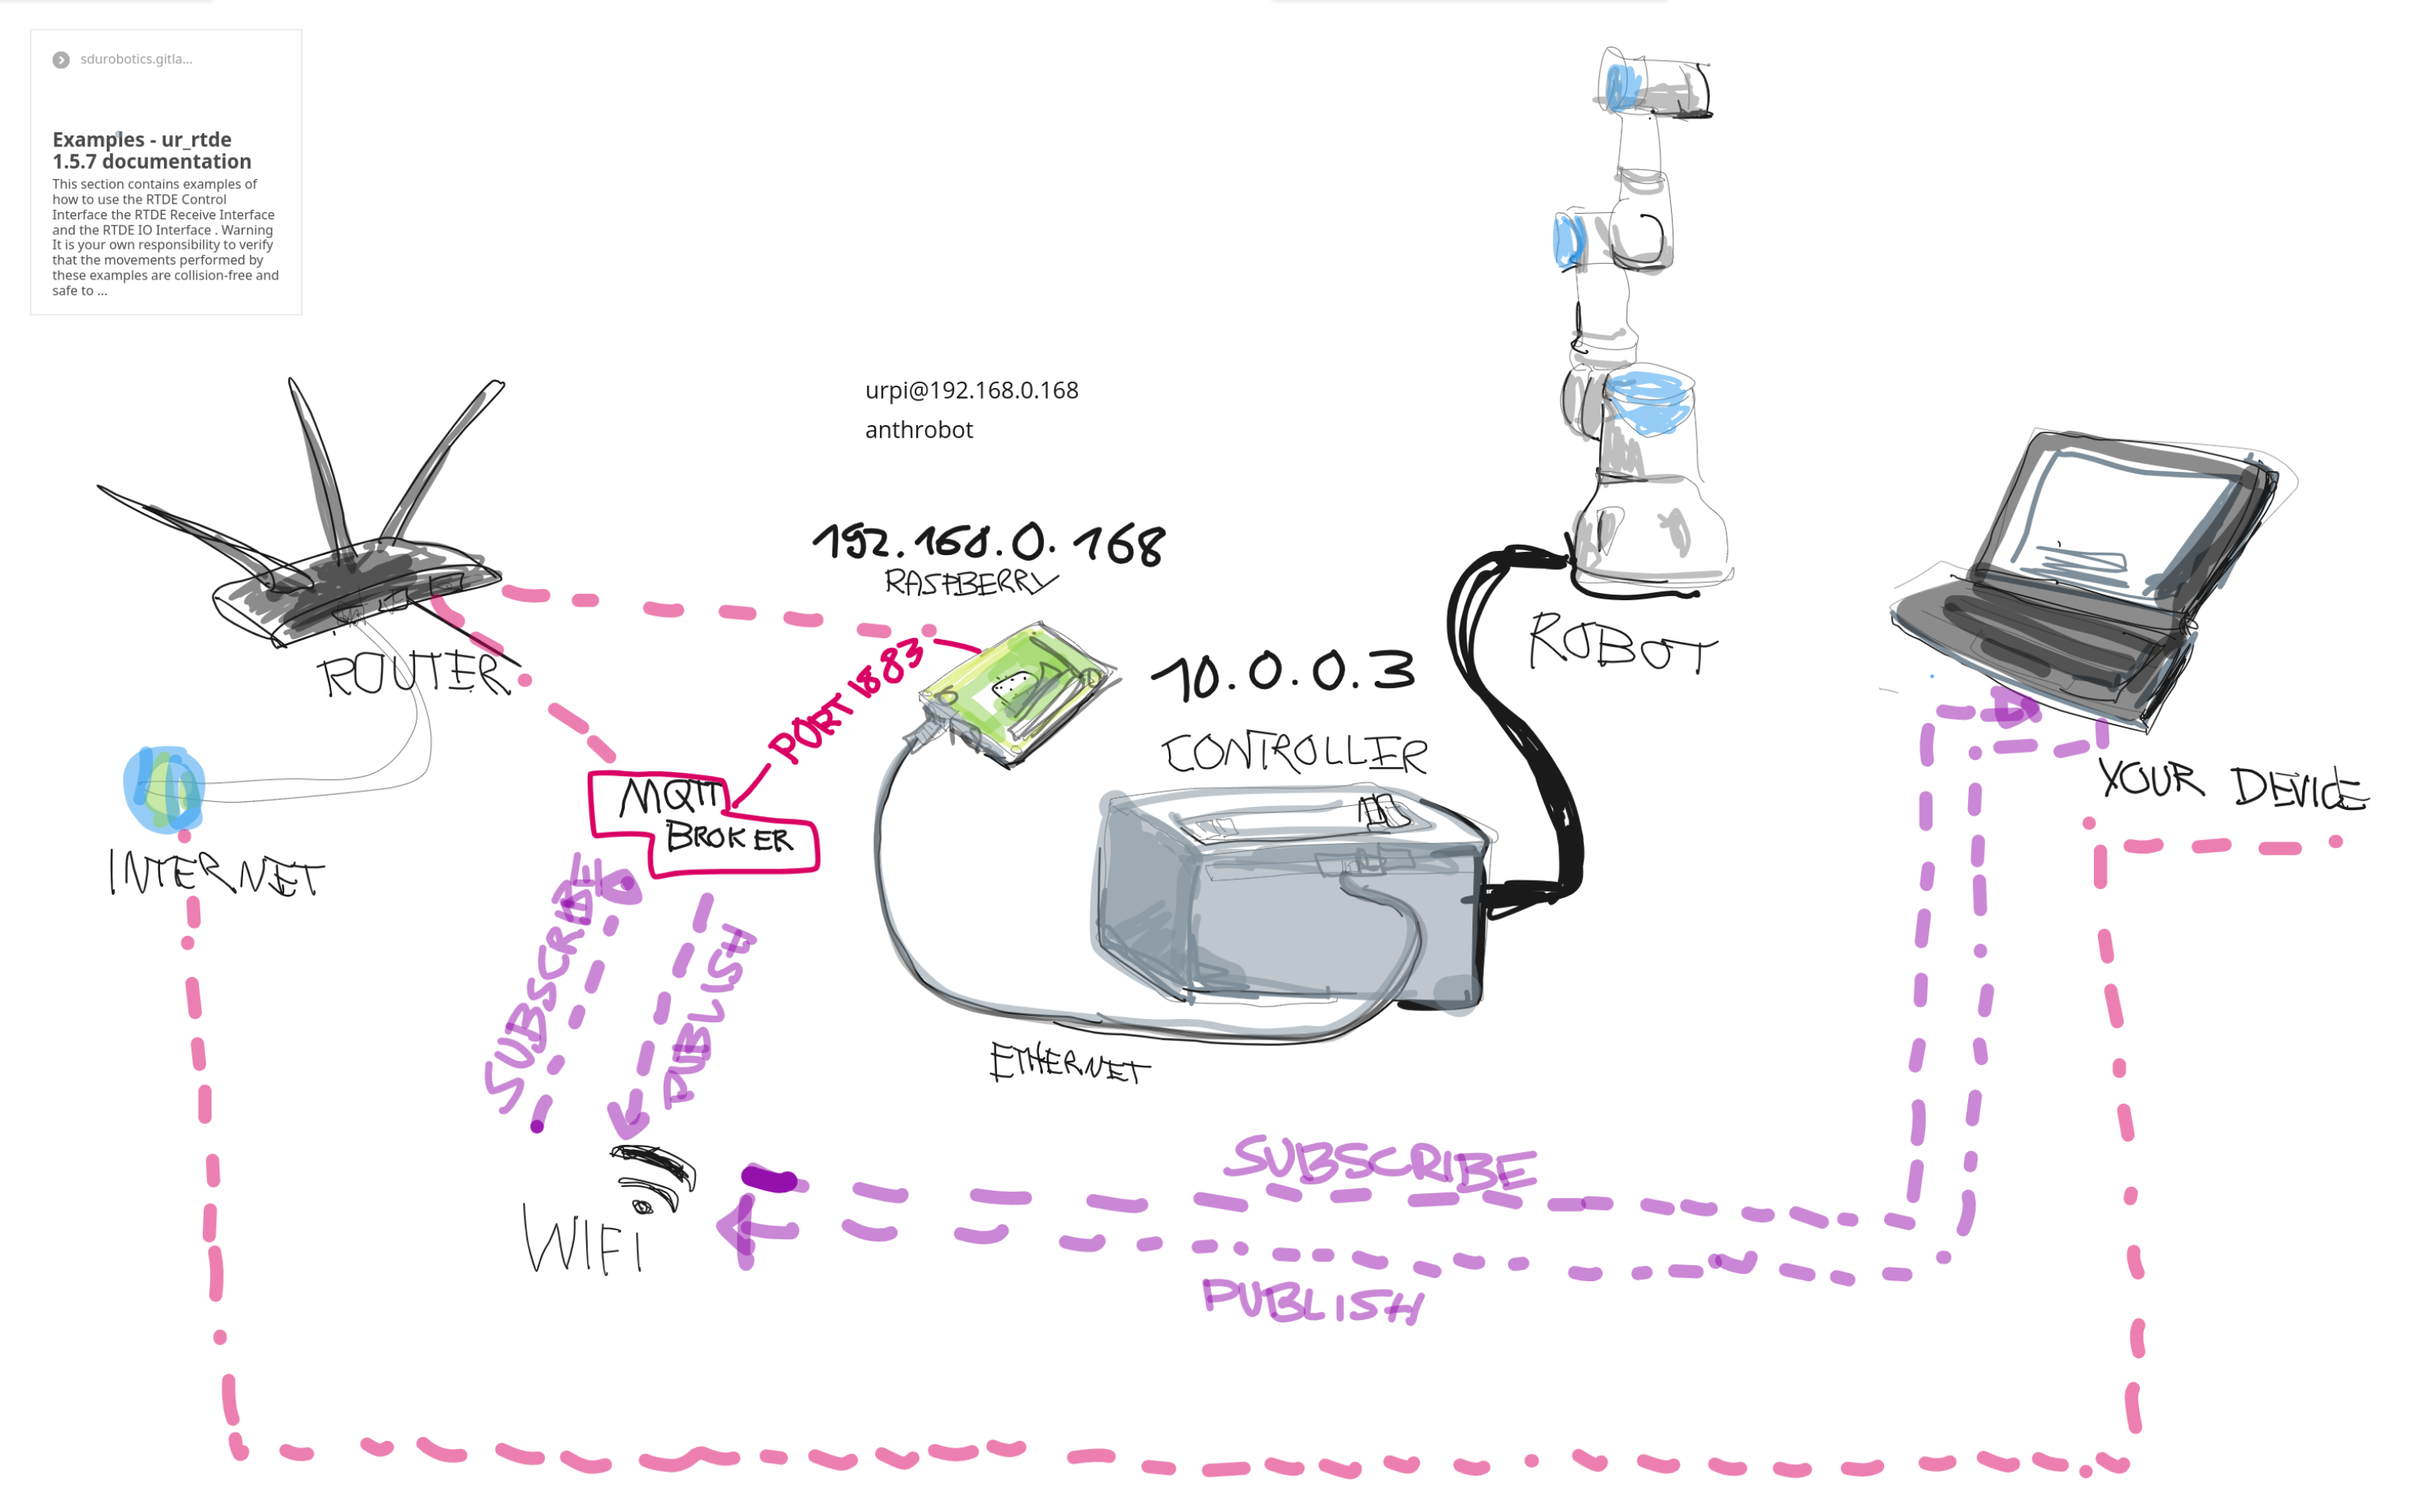
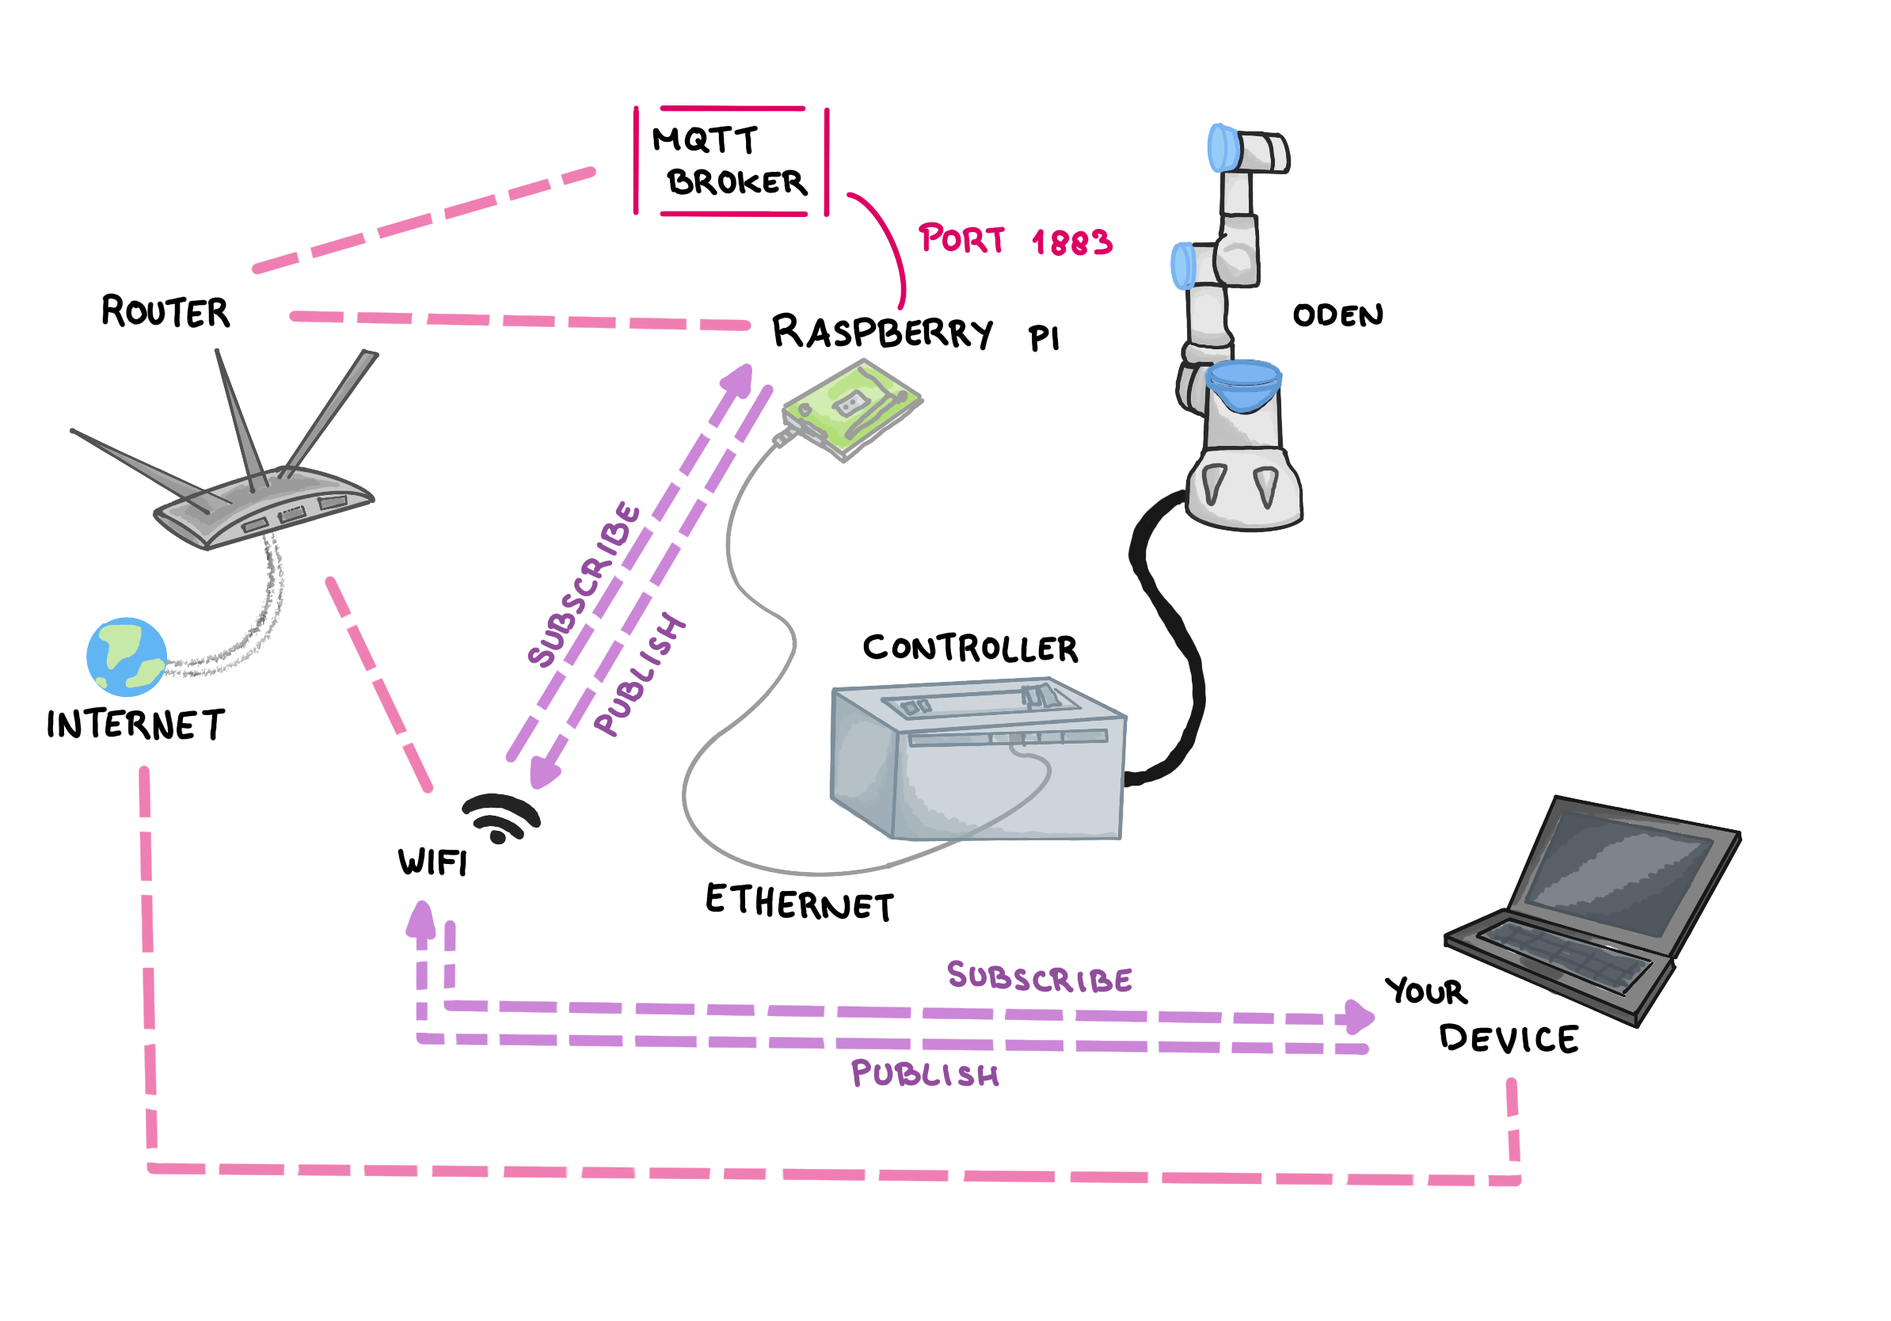
integrated schema

diff --git a/_projects/2023_Anthrobot.md b/_projects/2023_Anthrobot.md
@@ -45,20 +45,24 @@ The culmination of this work was a series of performances in early December 2023
 At the core of ANTHROBOT's interactive capabilities is a custom **UR3e MQTT Controller** ([GitHub Repository](https://github.com/laurajul/ur3e_mqtt_controller)). This script enables the precise and dynamic control of the [**Universal Robots UR3e industrial robot arm**](https://www.universal-robots.com/products/ur3e/) vie the MQTT protocol.
 
 <div class="row justify-content-sm-center">
-    <div class="col-sm mt-3 mt-md-0">
-        {% include figure.liquid path="assets/img/seminars/2023/anthrobot/rehearsal_01.png" title="MQTT Control Interface" class="img-fluid rounded z-depth-1" %}
-    </div>
-    <div class="col-sm mt-3 mt-md-0">
-        {% include figure.liquid path="assets/img/seminars/2023/anthrobot/process_04.png" title="Robot in Action" class="img-fluid rounded z-depth-1" %}
-    </div>
-        <div class="col-sm mt-3 mt-md-0">
+    <div class="col-sm mt-8 mt-md-0">
         {% include figure.liquid path="assets/img/seminars/2023/anthrobot/schema.png" title="Robot in Action" class="img-fluid rounded z-depth-1" %}
     </div>
 </div>
 <div class="caption">
-   Left: the robot with a camera 'eye' | Middle: programming session during the seminar | Right: The custom MQTT control interface used to choreograph the UR3e robot arm
+    The custom MQTT control interface used to choreograph the UR3e robot arm drawing by Tyanka Demyanka Adrian
 </div>
 
+<div class="row justify-content-sm-center">
+    <div class="col-sm mt-4 mt-md-0">
+        {% include figure.liquid path="assets/img/seminars/2023/anthrobot/rehearsal_01.png" title="MQTT Control Interface" class="img-fluid rounded z-depth-1" %}
+    </div>
+    <div class="col-sm mt-4 mt-md-0">
+        {% include figure.liquid path="assets/img/seminars/2023/anthrobot/process_04.png" title="Robot in Action" class="img-fluid rounded z-depth-1" %}
+    </div>
+</div>
+<div class="caption">
+    </div>
 Within the seminar, students focused on principles of human-computer interaction and interaction design. They developed choreographed programs for the robot that could be loaded and played remotely. To enrich the performance, they also designed soundscapes by integrating triggers into the MQTT communication scheme, which controlled the audio via OSC. A portion of the performance utilized a 'freedrive' mode, enabling an actor to move the robot's arm directly for more fluid interaction. To manage these elements live, the students created a control dashboard for sending MQTT commands to the robot during the performance.
 
 ---
@@ -90,6 +94,12 @@ Within the seminar, students focused on principles of human-computer interaction
   <a href="http://www.alessandrodematteis.com/" target="_blank">Alessandro de Matteis&reg;</a>.
 </div>
 ---
+
+<!--
+<div style="position: relative; padding-bottom: 56.25%; height: 0; overflow: hidden;">
+<iframe width="560" height="315" src="https://www.youtube.com/embed/ev-dDY0oa7Y?si=RoM1EZ9mnBVlEZcS" title="YouTube video player" frameborder="0" allow="accelerometer; autoplay; clipboard-write; encrypted-media; gyroscope; picture-in-picture; web-share" referrerpolicy="strict-origin-when-cross-origin" allowfullscreen></iframe>
+</div>
+-->
 
 
 ### Students
